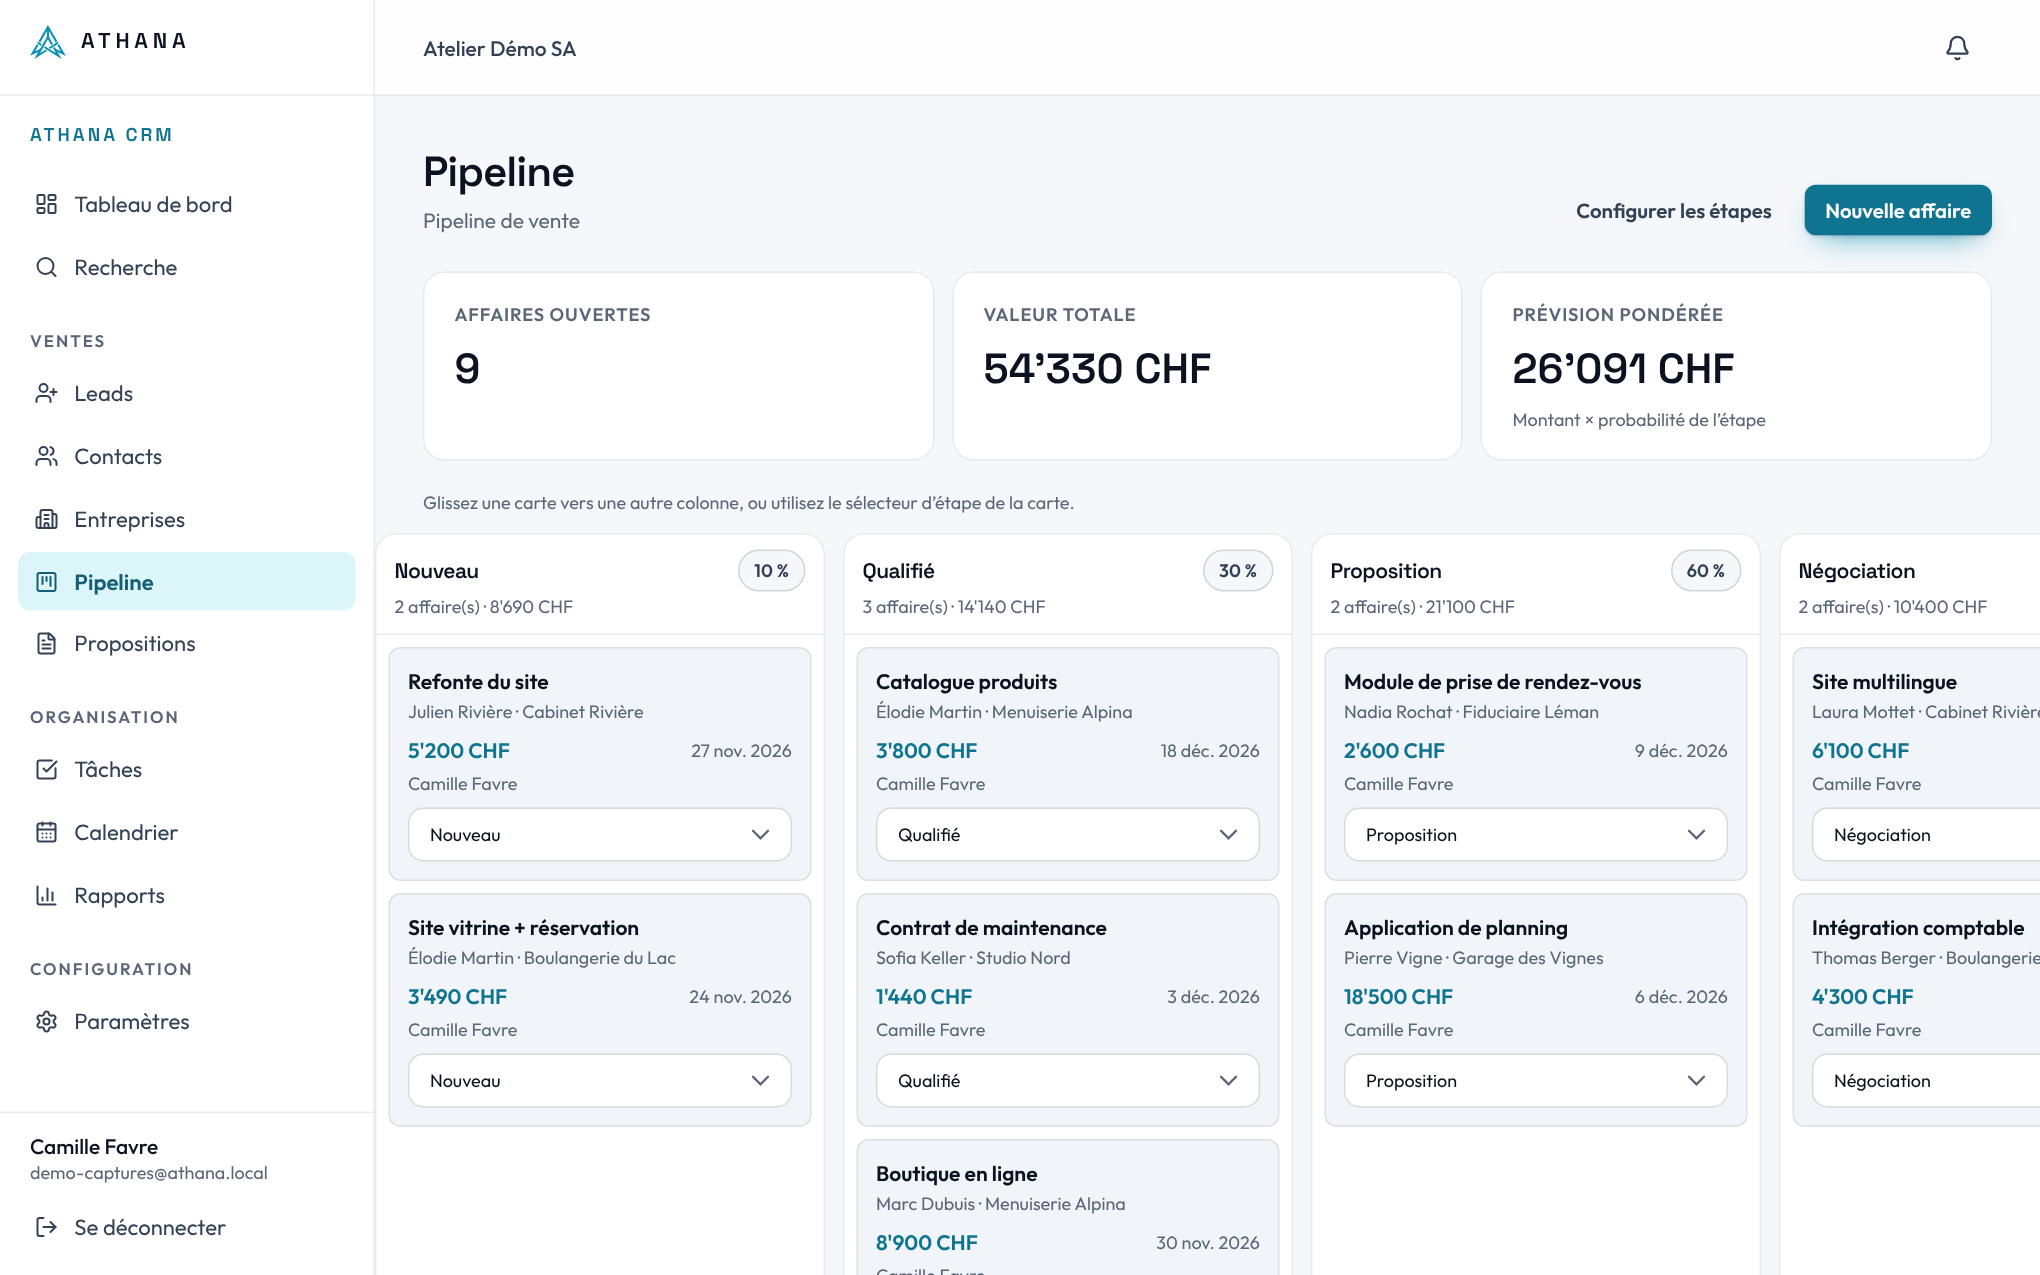
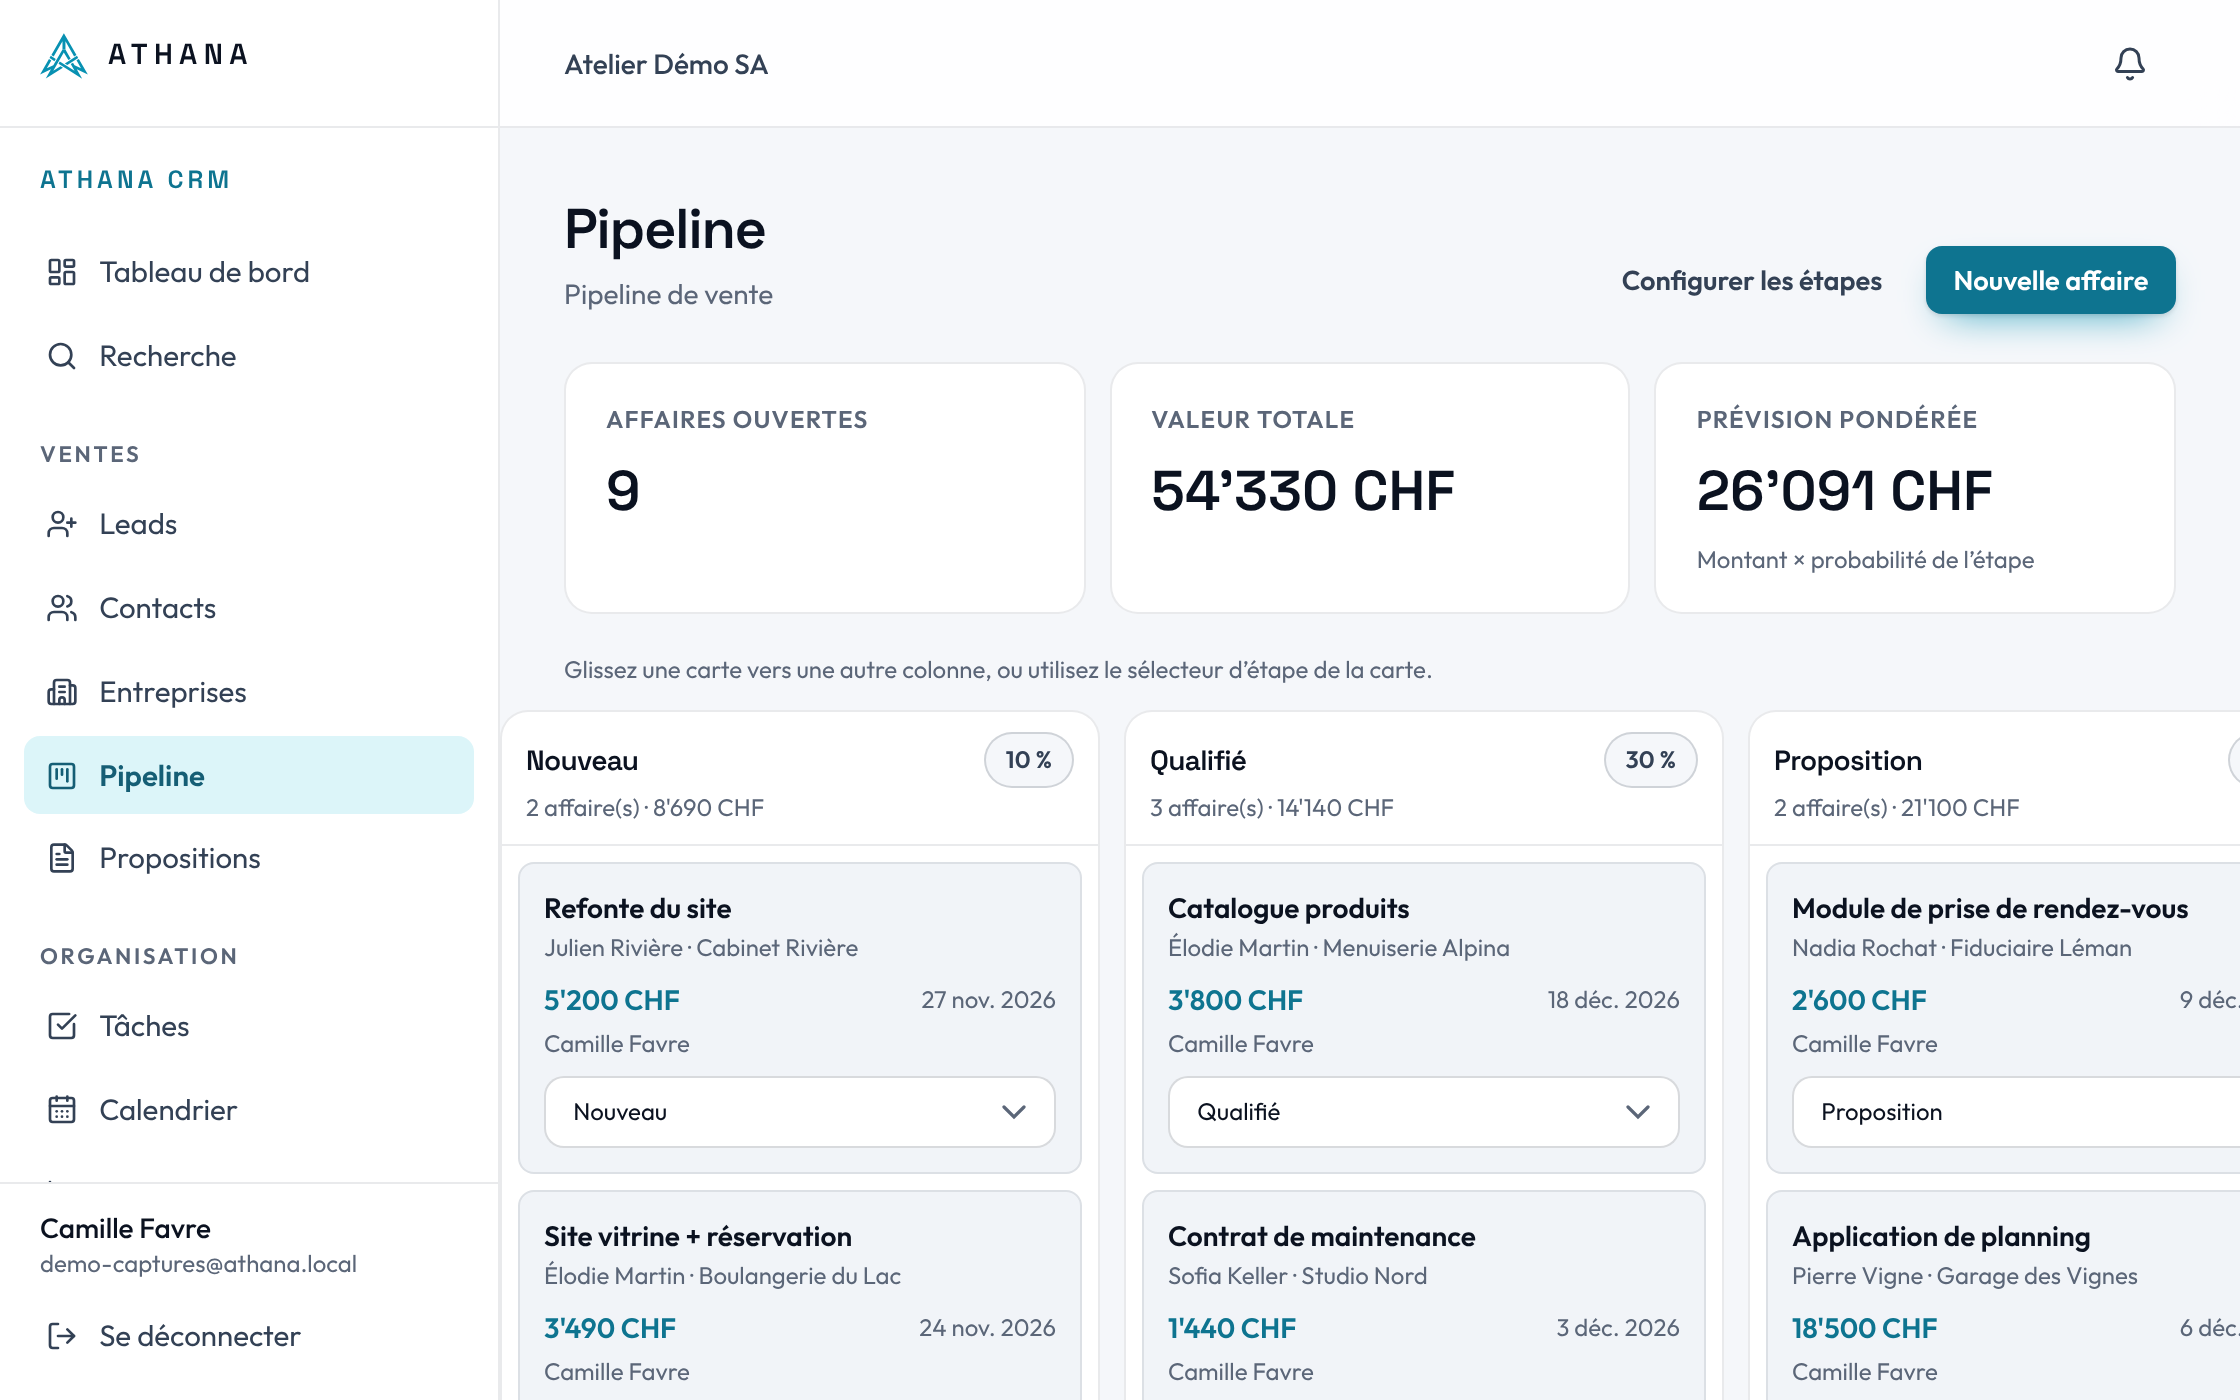
Public site: new header, fluid hero hover, sharper CRM and Pointage screenshots
Header in one type family with pill actions and no white strip above the hero.
The hero entrance no longer holds the transform, so the hover transition runs.
Product screens recaptured at 1120px wide and 2x, served at quality 92.

Claude-Session: https://claude.ai/code/session_014ASPmz5AYwP5RQD6uPfvJx

diff --git a/src/app/globals.css b/src/app/globals.css
@@ -267,12 +267,23 @@
 
 .site footer :is(h2, h3, h4) { font-size: 0.875rem; line-height: 1.4; letter-spacing: 0; font-weight: 500; }
 .site footer.section-dark { background: #080d15; margin-top: 0; }
-.site header nav a { padding-inline: 0.55rem; }
-.site header .btn-sm { padding-inline: 0.75rem; font-size: 0.875rem; }
-.site header .container-page > * { min-width: 0; }
+/* Header: one type family (Montserrat), pill actions like the hero's, and no white strip above the hero. */
+.site-header { background: transparent; transition: background-color 0.25s, box-shadow 0.25s, backdrop-filter 0.25s; }
+.site-header[data-solid="true"] { background: rgb(255 255 255 / 0.86); -webkit-backdrop-filter: saturate(1.4) blur(14px); backdrop-filter: saturate(1.4) blur(14px); box-shadow: 0 1px 0 rgb(12 18 28 / 0.08); }
+.site-nav { gap: 2px; font-family: var(--font-display); }
+.site-nav a { padding: 9px 14px; border-radius: 999px; font-size: 0.9375rem; font-weight: 500; letter-spacing: -0.005em; color: var(--color-fg); white-space: nowrap; transition: background-color 0.2s, color 0.2s; }
+.site-nav a:hover { background: rgb(12 18 28 / 0.06); color: var(--color-accent-800); }
+.site-icon { display: inline-grid; place-items: center; width: 42px; height: 42px; border-radius: 999px; color: var(--color-fg); transition: background-color 0.2s, transform 0.18s cubic-bezier(0.2, 0.8, 0.2, 1); }
+.site-icon:hover { background: rgb(12 18 28 / 0.06); }
+.site-icon:active { transform: scale(0.94); }
+.site-lang { height: 42px; padding: 0 12px; border-radius: 999px; font-family: var(--font-display); font-weight: 500; color: var(--color-fg); transition: background-color 0.2s; }
+.site-lang:hover { background: rgb(12 18 28 / 0.06); }
+.site-lang select { font-family: inherit; font-weight: 500; color: inherit; }
+.site .btn.site-cta { min-height: 44px; padding-inline: 1.35rem; border-radius: 999px; font-size: 0.9375rem; }
+@media (max-width: 1360px) { .site-nav a { padding-inline: 10px; font-size: 0.875rem; } .site .btn.site-cta { padding-inline: 1.1rem; font-size: 0.875rem; } .site-lang { padding-inline: 8px; } }
 /* Home hero: the two-column composition the owner chose (statement on the left, two real templates on the right)
    on a faintly tinted ground. */
-.site .hero { background: color-mix(in srgb, var(--color-accent-300) 9%, #ffffff); }
+.site .hero { background: color-mix(in srgb, var(--color-accent-300) 9%, #ffffff); margin-top: -76px; padding-top: 76px; }
 .site .hero-grid { display: grid; gap: 48px; align-items: center; padding-block: 48px 64px; }
 .site .hero .eyebrow { color: var(--color-accent-700); font-size: 0.9375rem; }
 .site .hero h1 { font-size: clamp(2.25rem, 3.75vw, 3.75rem); line-height: 1.1; letter-spacing: -0.03em; font-weight: 500; text-wrap: wrap; }
@@ -281,16 +292,16 @@
 .site .hero .btn-outline { color: var(--color-accent-800); background: transparent; }
 .site .hero-visual { position: relative; padding: 0 5% 9% 0; }
 .site .hero-visual > :nth-child(2) { position: absolute; right: 0; bottom: 0; width: 54%; }
-.site .hero-visual .browser { transition: transform 0.5s cubic-bezier(0.2, 0.8, 0.2, 1); }
-.site .hero-visual:hover > :first-child { transform: translate(-6px, -6px); }
-.site .hero-visual:hover > :nth-child(2) { transform: translate(8px, 8px); }
+.site .hero-visual .browser { transition: transform 0.9s cubic-bezier(0.22, 1, 0.36, 1); will-change: transform; }
+.site .hero-visual:hover > :first-child { transform: translate(-10px, -8px); }
+.site .hero-visual:hover > :nth-child(2) { transform: translate(12px, 10px); }
 @media (min-width: 1024px) {
   .site .hero-grid { grid-template-columns: minmax(0, 1.15fr) minmax(0, 1fr); gap: 56px; padding-block: 72px 96px; }
 }
-@media (min-width: 1024px) and (min-height: 640px) { .site .hero { min-height: calc(100svh - 64px); display: grid; align-items: center; } }
+@media (min-width: 1024px) and (min-height: 640px) { .site .hero { min-height: 100svh; display: grid; align-items: center; } }
 /* The entrance plays once on load and rests under reduced motion. */
 @media (prefers-reduced-motion: no-preference) {
-  .site [data-enter] > * { animation: enter 0.9s cubic-bezier(0.2, 0.8, 0.2, 1) both; }
+  .site [data-enter] > * { animation: enter 0.9s cubic-bezier(0.2, 0.8, 0.2, 1) backwards; }
   .site [data-enter] > :nth-child(2) { animation-delay: 0.08s; } .site [data-enter] > :nth-child(3) { animation-delay: 0.16s; }
   .site [data-enter] > :nth-child(4) { animation-delay: 0.24s; } .site [data-enter] > :nth-child(5) { animation-delay: 0.32s; }
 }

diff --git a/src/components/site/HeaderClient.tsx b/src/components/site/HeaderClient.tsx
@@ -12,7 +12,7 @@ export function LanguageSwitcher({ compact }: { compact?: boolean }) {
   const pathname = usePathname();
   const t = useT();
   return (
-    <label className="relative inline-flex items-center gap-1.5 text-sm text-fg-soft">
+    <label className="site-lang relative inline-flex items-center gap-1.5 text-sm text-fg-soft">
       <Globe size={16} aria-hidden />
       <span className="sr-only">{t('Langue et pays')}</span>
       <select
@@ -52,24 +52,24 @@ export function HeaderClient({ cartCount, signedIn, isStaff }: { cartCount: numb
     { href: '/custom', label: t('Sur mesure') },
   ];
   return (
-    <header className={`no-print sticky top-0 z-40 border-b transition-colors ${scrolled || open ? 'border-line bg-ink-950/85 backdrop-blur-md' : 'border-transparent bg-ink-950/0'}`}>
-      <div className="container-page flex h-16 items-center justify-between gap-4">
-        <Link href="/" className="shrink-0 no-underline"><Logo /></Link>
-        <nav aria-label={t('Navigation principale')} className="hidden items-center gap-1 lg:flex">
-          {nav.map((n) => <Link key={n.href} href={n.href} className="whitespace-nowrap rounded-lg px-3 py-2 text-sm text-fg-soft no-underline transition-colors hover:bg-black/5 hover:text-fg">{n.label}</Link>)}
+    <header className="site-header no-print sticky top-0 z-40" data-solid={scrolled || open}>
+      <div className="container-page flex h-[76px] items-center justify-between gap-4">
+        <Link href="/" className="shrink-0 no-underline"><Logo size={30} /></Link>
+        <nav aria-label={t('Navigation principale')} className="site-nav hidden items-center lg:flex">
+          {nav.map((n) => <Link key={n.href} href={n.href} className="no-underline">{n.label}</Link>)}
         </nav>
-        <div className="flex items-center gap-1.5">
+        <div className="flex items-center gap-1">
           <div className="hidden md:block"><LanguageSwitcher compact /></div>
-          <Link href="/cart" className="btn btn-ghost btn-sm relative" aria-label={t('Panier')}>
-            <ShoppingBag size={18} aria-hidden />
-            {cartCount > 0 && <span className="absolute -right-0.5 -top-0.5 grid h-4 min-w-4 place-items-center rounded-full bg-accent-600 px-1 text-[10px] font-bold text-white">{cartCount}</span>}
+          <Link href="/cart" className="site-icon relative" aria-label={t('Panier')}>
+            <ShoppingBag size={19} strokeWidth={1.75} aria-hidden />
+            {cartCount > 0 && <span className="absolute right-0 top-0 grid h-4 min-w-4 place-items-center rounded-full bg-accent-600 px-1 text-[10px] font-bold text-white">{cartCount}</span>}
           </Link>
-          <Link href={signedIn ? (isStaff ? '/admin' : '/account') : '/login'} className="btn btn-ghost btn-sm" aria-label={signedIn ? t('Mon compte') : t('Connexion')}>
-            <User size={18} aria-hidden /><span className="hidden xl:inline">{signedIn ? t('Mon compte') : t('Connexion')}</span>
+          <Link href={signedIn ? (isStaff ? '/admin' : '/account') : '/login'} className="site-icon" aria-label={signedIn ? t('Mon compte') : t('Connexion')}>
+            <User size={19} strokeWidth={1.75} aria-hidden />
           </Link>
-          <Link href="/quote" className="btn btn-primary btn-sm hidden sm:inline-flex">{t('Demander un devis')}</Link>
-          <button type="button" className="btn btn-ghost btn-sm lg:hidden" aria-expanded={open} aria-controls="mobile-nav" aria-label={t('Menu')} onClick={() => setOpen((v) => !v)}>
-            {open ? <X size={20} /> : <Menu size={20} />}
+          <Link href="/quote" className="btn btn-primary site-cta ml-2 hidden sm:inline-flex">{t('Demander un devis')}</Link>
+          <button type="button" className="site-icon lg:hidden!" aria-expanded={open} aria-controls="mobile-nav" aria-label={t('Menu')} onClick={() => setOpen((v) => !v)}>
+            {open ? <X size={21} /> : <Menu size={21} />}
           </button>
         </div>
       </div>

diff --git a/src/components/site/Showcase.tsx b/src/components/site/Showcase.tsx
@@ -7,7 +7,7 @@ export function BrowserFrame({ src, alt, priority, className = '', ratio = '16/1
     <div className={`browser ${className}`}>
       <div className="browser-bar" aria-hidden><i /><i /><i /></div>
       <div className="relative bg-ink-800" style={{ aspectRatio: ratio }}>
-        <Image src={src} alt={alt} fill sizes={sizes} priority={priority} className="object-cover object-top" />
+        <Image src={src} alt={alt} fill sizes={sizes} priority={priority} quality={92} className="object-cover object-top" />
       </div>
     </div>
   );
@@ -18,7 +18,7 @@ export function PhoneFrame({ src, alt, className = '' }: { src: string; alt: str
   return (
     <div className={`relative w-[230px] shrink-0 rounded-[34px] border border-line-strong bg-fg p-2 shadow-[0_30px_60px_-28px_rgb(15_23_42/0.5)] ${className}`}>
       <div className="relative overflow-hidden rounded-[27px] bg-ink-850" style={{ aspectRatio: '390/800' }}>
-        <Image src={src} alt={alt} fill sizes="230px" className="object-cover object-top" />
+        <Image src={src} alt={alt} fill sizes="230px" quality={92} className="object-cover object-top" />
       </div>
     </div>
   );

diff --git a/scripts/capture-product.ts b/scripts/capture-product.ts
@@ -106,7 +106,7 @@ const { user, org } = await seed();
 await db.session.updateMany({ where: { userId: user.id }, data: { activeOrganizationId: org.id } });
 await mkdir(OUT, { recursive: true });
 const browser = await chromium.launch();
-const desktop = await browser.newContext({ viewport: { width: 1360, height: 850 }, deviceScaleFactor: 1.5 });
+const desktop = await browser.newContext({ viewport: { width: 1120, height: 700 }, deviceScaleFactor: 2 });
 const page = await login(desktop);
 await db.session.updateMany({ where: { userId: user.id }, data: { activeOrganizationId: org.id } });
 await page.goto(`${BASE}/fr-ch/app/crm`, { waitUntil: 'networkidle' }); // first visit creates the default pipeline

diff --git a/src/app/[locale]/(site)/page.tsx b/src/app/[locale]/(site)/page.tsx
@@ -85,7 +85,7 @@ export default async function Home({ params }: { params: Promise<{ locale: strin
             </div>
           </div>
           {reel.length >= 2 && (
-            <div className="hero-visual" data-enter>
+            <div className="hero-visual">
               <BrowserFrame src={reel[0].coverImage!} alt={t('Aperçu du modèle {name}', { name: reel[0].name })} priority sizes="(min-width:1024px) 600px, 100vw" />
               <BrowserFrame src={reel[1].coverImage!} alt={t('Aperçu du modèle {name}', { name: reel[1].name })} priority sizes="340px" />
             </div>

diff --git a/next.config.ts b/next.config.ts
@@ -26,6 +26,7 @@ const securityHeaders = [
 const config: NextConfig = {
   output: 'standalone',
   poweredByHeader: false,
+  images: { qualities: [75, 92] },
   experimental: { serverActions: { bodySizeLimit: '16mb' } },
   async headers() {
     return [
